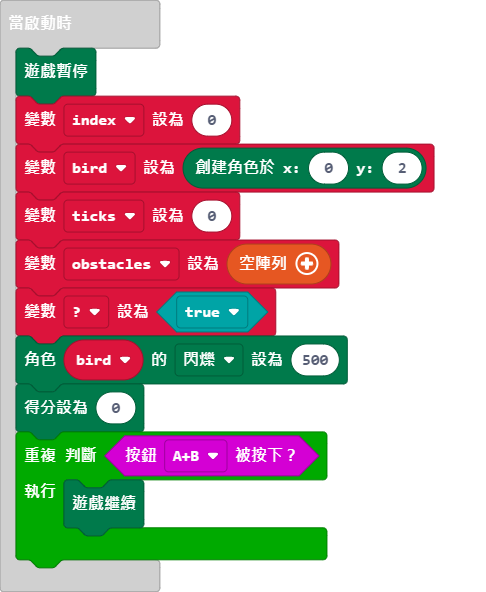
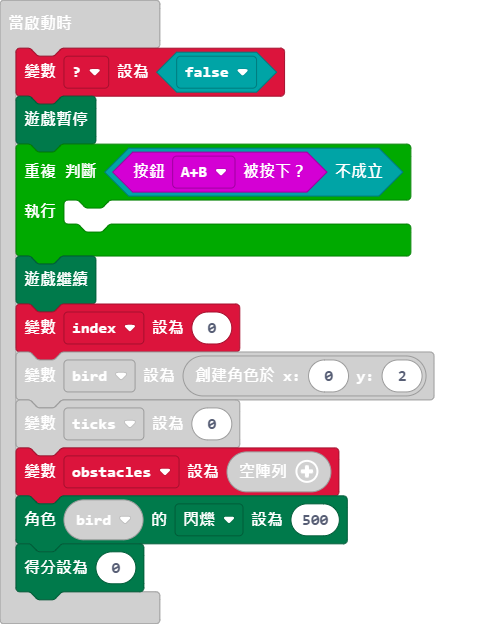
更新 main.ts, main.blocks

diff --git a/main.ts b/main.ts
@@ -24,19 +24,20 @@ let time = 0
 let emptyObstacleY = 0
 let zp = 0
 let vu6 = 0
-let _ = false
 let bird: game.LedSprite = null
+let _ = false
+_ = false
 game.pause()
+while (!(input.buttonIsPressed(Button.AB))) {
+	
+}
+game.resume()
 let index = 0
 bird = game.createSprite(0, 2)
 let ticks = 0
 let obstacles: game.LedSprite[] = []
-_ = true
 bird.set(LedSpriteProperty.Blink, 500)
 game.setScore(0)
-while (input.buttonIsPressed(Button.AB)) {
-    game.resume()
-}
 basic.forever(function () {
     if (!(game.isPaused())) {
         if (_) {
